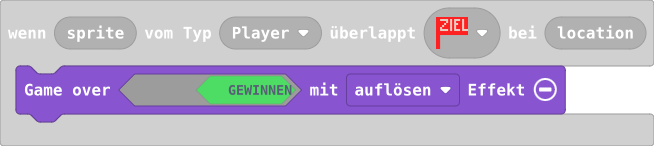
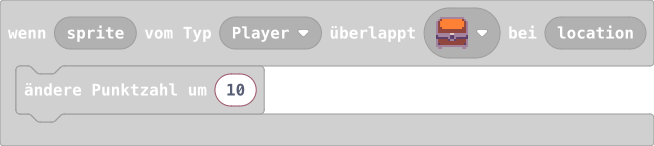
Aktualisiere main.blocks, main.ts

Changed region(s): [[0.0, 0.4384, 0.8869, 0.8493], [0.6422, 0.1096, 0.7339, 0.3288]]

diff --git a/main.ts b/main.ts
@@ -131,7 +131,7 @@ scene.onOverlapTile(SpriteKind.Player, sprites.dungeon.collectibleBlueCrystal, f
         `)
 })
 scene.onOverlapTile(SpriteKind.Player, sprites.dungeon.chestClosed, function (sprite, location) {
-    info.changeScoreBy(1)
+    info.changeScoreBy(10)
 })
 scene.onOverlapTile(SpriteKind.Player, sprites.dungeon.collectibleRedCrystal, function (sprite, location) {
     scene.setBackgroundImage(img`
